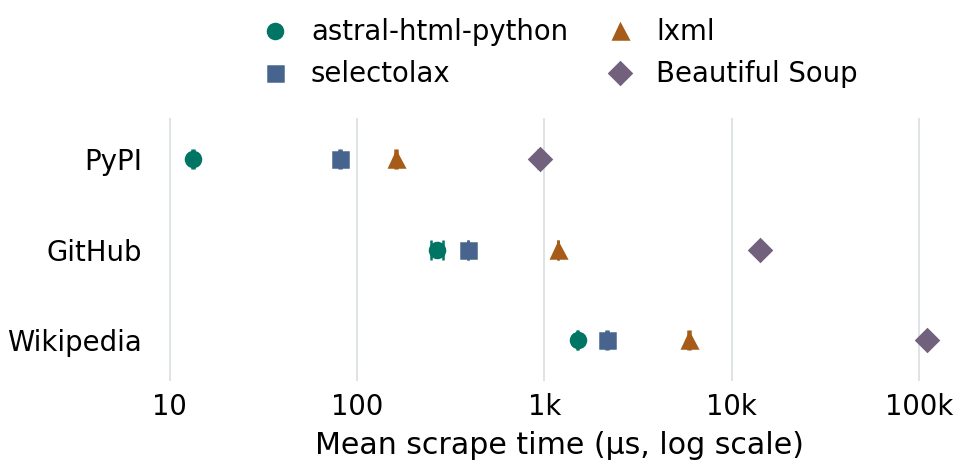
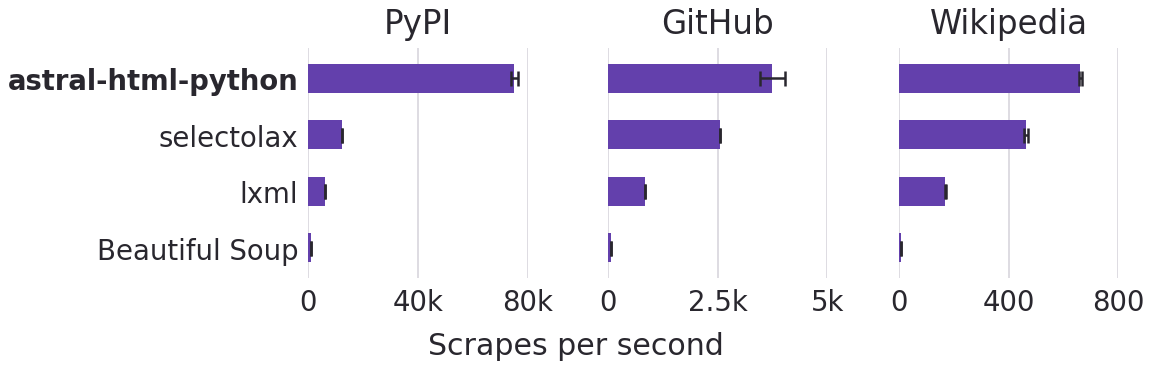
Use horizontal bars for README scraping benchmarks

diff --git a/benchmarks/plot.py b/benchmarks/plot.py
@@ -2,52 +2,63 @@
 # requires-python = ">=3.12"
 # dependencies = ["matplotlib==3.10.7"]
 # ///
-"""Regenerate filtered-links.png with `uv run --script benchmarks/plot.py`."""
+"""Redraw the README charts with `uv run --script benchmarks/plot.py`."""
 
 import json
 from pathlib import Path
 
 import matplotlib.pyplot as plt  # ty: ignore[unresolved-import]
+from matplotlib import ticker  # ty: ignore[unresolved-import]
 
 directory = Path(__file__).parent
 data = json.loads((directory / "filtered-links.json").read_text())
+rows = {(row["fixture"], row["parser"]): row for row in data["measurements"]}
 sites = {"pypi": "PyPI", "github": "GitHub", "wikipedia": "Wikipedia"}
-parsers = [
-    ("astral-html", "astral-html-python", "o", "#007563"),
-    ("selectolax (Lexbor)", "selectolax", "s", "#46648d"),
-    ("lxml", "lxml", "^", "#a65b18"),
-    ("Beautiful Soup", "Beautiful Soup", "D", "#71617c"),
-]
+parsers = {
+    "astral-html": "astral-html-python",
+    "selectolax (Lexbor)": "selectolax",
+    "lxml": "lxml",
+    "Beautiful Soup": "Beautiful Soup",
+}
 
-fig, ax = plt.subplots(figsize=(5.4, 2.6), layout="constrained")
-for parser, label, marker, color in parsers:
-    rows = [row for row in data["measurements"] if row["parser"] == parser]
-    points = ax.errorbar(
-        [row["mean_us"] for row in rows],
-        [sites[row["fixture"]] for row in rows],
-        xerr=[row["stderr_us"] for row in rows],
-        fmt=marker,
-        color=color,
-        markersize=6,
-        capsize=4,
+for filename, ink, purple, grid, background in [
+    ("filtered-links.png", "#29272e", "#6340ac", "#dedce2", "white"),
+    ("filtered-links-dark.png", "#f0eff5", "#ae91eb", "#38363e", "#0d1117"),
+]:
+    fig, axes = plt.subplots(
+        1, 3, sharey=True, figsize=(6.4, 2.05), layout="constrained"
     )
-    points.lines[0].set_label(label)
+    fig.get_layout_engine().set(wspace=0.12)
+    for ax, (fixture, title) in zip(axes, sites.items(), strict=True):
+        for parser, label in parsers.items():
+            row = rows[fixture, parser]
+            mean, se = row["mean_us"], row["stderr_us"]
+            rate = 1_000_000 / mean
+            low, high = 1_000_000 / (mean + se), 1_000_000 / (mean - se)
+            ax.barh(
+                label,
+                rate,
+                height=0.52,
+                color=purple,
+                xerr=[[rate - low], [high - rate]],
+                error_kw={"ecolor": ink, "elinewidth": 1, "capsize": 3, "capthick": 1},
+            )
 
-ax.set_xscale("log")
-ax.set_xticks([10, 100, 1000, 10000, 100000], ["10", "100", "1k", "10k", "100k"])
-ax.minorticks_off()
-ax.set_ylim(2.45, -0.45)
-ax.set_xlabel("Mean scrape time (µs, log scale)", fontsize=12)
-ax.tick_params(length=0, labelsize=11, pad=5)
-ax.grid(axis="x", color="#dee3e6", linewidth=0.8)
-ax.spines[:].set_visible(False)
-ax.legend(
-    ncols=2,
-    loc="lower center",
-    bbox_to_anchor=(0.5, 1.02),
-    frameon=False,
-    fontsize=11,
-    handlelength=1.0,
-    columnspacing=1.4,
-)
-fig.savefig(directory / "filtered-links.png", dpi=180)
+        ticks = ticker.MaxNLocator(nbins=2, steps=[1, 2, 2.5, 4, 5, 10]).tick_values(
+            0, ax.dataLim.xmax
+        )
+        ax.set_xticks(ticks)
+        ax.set_xlim(0, ticks[-1])
+        ax.xaxis.set_major_formatter(ticker.EngFormatter(sep=""))
+        ax.set_ylim(len(parsers) - 0.45, -0.55)
+        ax.set_title(title, fontsize=13, color=ink)
+        ax.tick_params(length=0, labelsize=11, colors=ink, pad=4)
+        ax.set_axisbelow(True)
+        ax.grid(axis="x", color=grid, linewidth=0.8)
+        ax.spines[:].set_visible(False)
+        ax.set_facecolor(background)
+
+    axes[0].get_yticklabels()[0].set_fontweight("bold")
+    fig.supxlabel("Scrapes per second", fontsize=12, color=ink)
+    fig.savefig(directory / filename, facecolor=background, dpi=180)
+    plt.close(fig)

diff --git a/README.md b/README.md
@@ -10,10 +10,16 @@ A very fast Rust HTML parser with CSS queries for Python, built for scraping.
 It uses the [astral-html tokenizer](https://github.com/astral-sh/astral-html)
 and builds its own tree in Rust. Python receives element handles on demand.
 
-![Mean scrape time for four parsers. astral-html-python had the lowest mean on the PyPI, GitHub, and Wikipedia pages.](benchmarks/filtered-links.png)
+<p align="center">
+  <picture>
+    <source media="(prefers-color-scheme: dark)" srcset="benchmarks/filtered-links-dark.png">
+    <img src="benchmarks/filtered-links.png" width="660" alt="Bar chart of scrapes per second. astral-html-python had the highest rate of the four parsers on the PyPI, GitHub, and Wikipedia pages.">
+  </picture>
+</p>
 
-Each scrape parses in-memory HTML and extracts link URLs and text with CSS.
-Error bars show ±1 standard error across 12 processes. [Benchmark details](https://github.com/astral-experiments/astral-html-python/blob/main/benchmarks/README.md).
+Each parser reads the same HTML from memory and uses CSS queries to extract link
+URLs and text in document order. Each page uses its own scale. Whiskers show mean
+time ±1 standard error across 12 fresh processes, converted to scrapes per second. [Benchmark details](https://github.com/astral-experiments/astral-html-python/blob/main/benchmarks/README.md).
 
 ## Quick start
 

diff --git a/benchmarks/README.md b/benchmarks/README.md
@@ -75,8 +75,11 @@ and CPython 3.14.8. Other libraries were selectolax 1.0.0 (Lexbor), lxml
 | Wikipedia | lxml | 4,450 ± 10 | 8,780 ± 40 | 5,930 ± 60 | 1,310 ± 7 |
 | Wikipedia | Beautiful Soup | 81,900 ± 400 | 90,300 ± 300 | 110,000 ± 1,000 | 26,900 ± 300 |
 
-The project README plots the **Parse + filtered links** column. To redraw it
-from the [recorded means and standard errors](filtered-links.json), run
+The project README plots **Parse + filtered links** as scrapes per second, with
+a separate zero-based scale for each page. The rate is 1,000,000 divided by the
+mean time in microseconds. The whiskers use the same conversion on the two ends
+of the mean ± one standard error interval, so they can be asymmetric. To redraw
+the chart from the [recorded means and standard errors](filtered-links.json), run
 `uv run --script benchmarks/plot.py` from the repository root.
 
 Retaining only `a` subtrees and extracting all links took 14.5 ± 0.2 µs on
